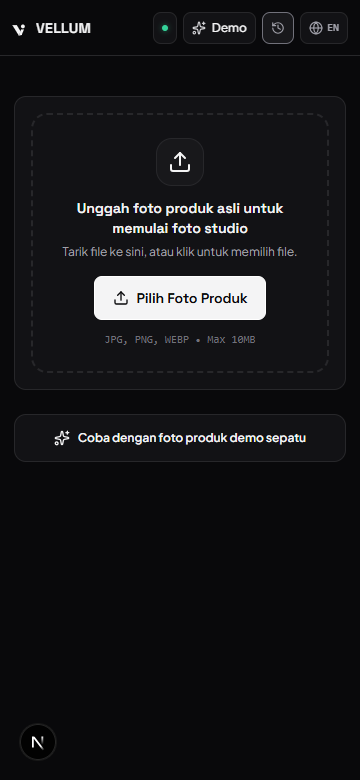
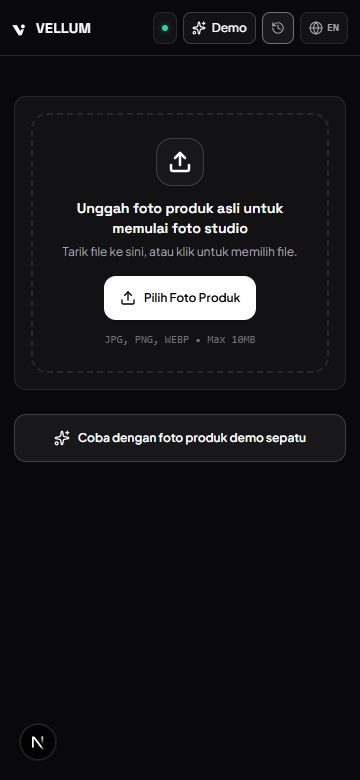
style: remove all orange/amber accents and enforce 100% pure white monochrome

Changed region(s): [[0.2444, 0.3385, 0.7639, 0.4308], [0.5194, 0.0308, 0.5806, 0.0615], [0.4889, 0.1846, 0.5194, 0.2462]]

diff --git a/components/studio/StudioDesktop.tsx b/components/studio/StudioDesktop.tsx
@@ -262,9 +262,13 @@ export function StudioDesktop({ session }: StudioDesktopProps) {
                 ? "Sedang membuat foto produk studio"
                 : `Buat foto studio (${generationCount} gambar)`
             }
-            className="btn-primary w-full h-11 text-xs font-semibold flex items-center justify-center gap-2 rounded-xl shadow-md cursor-pointer transition-all"
+            className={`w-full h-11 text-xs font-semibold flex items-center justify-center gap-2 rounded-xl transition-all cursor-pointer ${
+              isGenerating || sourceImages.length === 0
+                ? "bg-zinc-900 text-zinc-500 border border-zinc-800 cursor-not-allowed"
+                : "bg-white text-black font-semibold hover:bg-zinc-200 border-none shadow-md"
+            }`}
           >
-            <Play className="w-4 h-4 fill-current shrink-0" />
+            <Play className={`w-4 h-4 fill-current shrink-0 ${isGenerating || sourceImages.length === 0 ? "text-zinc-500" : "text-black fill-black"}`} />
             <span>
               {isGenerating
                 ? (language === "id" ? "Memproses foto studio..." : "Generating studio shoot...")
@@ -297,9 +301,9 @@ export function StudioDesktop({ session }: StudioDesktopProps) {
 
         {/* Quota Notice */}
         {quotaExceededNotice && (
-          <div className="mb-4 p-3 rounded-xl bg-amber-950/60 border border-amber-800 text-xs text-amber-200 flex items-center justify-between">
+          <div className="mb-4 p-3 rounded-xl bg-zinc-900 border border-zinc-700 text-xs text-white flex items-center justify-between">
             <div className="flex items-center gap-2">
-              <AlertTriangle className="w-4 h-4 text-amber-400 shrink-0" />
+              <AlertTriangle className="w-4 h-4 text-white shrink-0" />
               <span>
                 {language === "id"
                   ? "Batas antrean demo tercapai. Silakan coba kembali sesaat lagi."
@@ -309,7 +313,7 @@ export function StudioDesktop({ session }: StudioDesktopProps) {
             <button
               type="button"
               onClick={() => setQuotaExceededNotice(false)}
-              className="font-semibold underline hover:text-white cursor-pointer ml-3"
+              className="font-semibold underline text-white hover:text-zinc-300 cursor-pointer ml-3"
             >
               {t.page.dismiss}
             </button>
@@ -333,10 +337,10 @@ export function StudioDesktop({ session }: StudioDesktopProps) {
                 type="button"
                 id="desktop-empty-load-demo"
                 onClick={handleLoadDemoProduct}
-                className="btn-secondary h-9 px-4 text-xs gap-1.5 rounded-lg border-studio-border"
+                className="h-9 px-4 text-xs gap-1.5 rounded-lg border border-zinc-700 bg-zinc-900/80 hover:bg-zinc-800 text-white font-medium flex items-center transition-colors cursor-pointer"
               >
-                <Sparkles className="w-3.5 h-3.5 text-zinc-100" />
-                <span>
+                <Sparkles className="w-3.5 h-3.5 text-white" />
+                <span className="text-white">
                   {language === "id"
                     ? "Atau muat contoh produk demo sepatu"
                     : "Or load demo footwear product"}
@@ -432,9 +436,9 @@ export function StudioDesktop({ session }: StudioDesktopProps) {
               <button
                 type="button"
                 onClick={handleRunAgent}
-                className="btn-primary h-8 px-3.5 text-xs gap-1.5 shrink-0"
+                className="h-9 px-4 text-xs font-semibold gap-1.5 shrink-0 rounded-xl bg-white text-black hover:bg-zinc-200 border-none shadow-md flex items-center cursor-pointer transition-all"
               >
-                <Play className="w-3.5 h-3.5 fill-current" />
+                <Play className="w-3.5 h-3.5 fill-black text-black" />
                 <span>{language === "id" ? "Buat foto sekarang" : "Create photo now"}</span>
               </button>
             </div>

diff --git a/components/studio/StudioMobile.tsx b/components/studio/StudioMobile.tsx
@@ -89,9 +89,9 @@ export function StudioMobile({ session }: StudioMobileProps) {
 
         {/* Demo Quota Exceeded Notice */}
         {quotaExceededNotice && (
-          <div className="p-3 rounded-xl bg-amber-950/60 border border-amber-800/80 text-xs text-amber-200 flex items-center justify-between">
+          <div className="p-3 rounded-xl bg-zinc-900 border border-zinc-700 text-xs text-white flex items-center justify-between">
             <div className="flex items-center gap-2">
-              <AlertTriangle className="w-4 h-4 text-amber-400 shrink-0" />
+              <AlertTriangle className="w-4 h-4 text-white shrink-0" />
               <span className="leading-snug">
                 {language === "id"
                   ? "Batas antrean demo tercapai. Silakan coba sesaat lagi."
@@ -101,7 +101,7 @@ export function StudioMobile({ session }: StudioMobileProps) {
             <button
               type="button"
               onClick={() => setQuotaExceededNotice(false)}
-              className="min-h-[44px] min-w-[44px] flex items-center justify-center font-semibold text-xs text-amber-300 hover:text-white cursor-pointer shrink-0 ml-1"
+              className="min-h-[44px] min-w-[44px] flex items-center justify-center font-semibold text-xs text-white hover:text-zinc-300 cursor-pointer shrink-0 ml-1"
             >
               {t.page.dismiss}
             </button>
@@ -128,10 +128,10 @@ export function StudioMobile({ session }: StudioMobileProps) {
                 type="button"
                 id="mobile-empty-load-demo"
                 onClick={handleLoadDemoProduct}
-                className="w-full min-h-[48px] px-4 rounded-xl border border-studio-border bg-studio-card text-studio-text hover:bg-studio-subcard transition-all flex items-center justify-center gap-2 text-xs font-semibold cursor-pointer active:scale-98"
+                className="w-full min-h-[48px] px-4 rounded-xl border border-zinc-700 bg-zinc-900 hover:bg-zinc-800 text-white transition-all flex items-center justify-center gap-2 text-xs font-semibold cursor-pointer active:scale-98"
               >
-                <Sparkles className="w-4 h-4 text-zinc-100" />
-                <span>
+                <Sparkles className="w-4 h-4 text-white" />
+                <span className="text-white">
                   {language === "id"
                     ? "Coba dengan foto produk demo sepatu"
                     : "Try with demo footwear photo"}
@@ -311,9 +311,13 @@ export function StudioMobile({ session }: StudioMobileProps) {
                 ? "Sedang membuat foto studio"
                 : `Buat foto produk studio (${generationCount} variasi)`
             }
-            className="btn-primary w-full min-h-[50px] text-sm font-semibold flex items-center justify-center gap-2 rounded-xl shadow-md cursor-pointer active:scale-98 transition-all"
+            className={`w-full min-h-[50px] text-sm font-semibold flex items-center justify-center gap-2 rounded-xl transition-all ${
+              isGenerating || sourceImages.length === 0
+                ? "bg-zinc-900 text-zinc-500 border border-zinc-800 cursor-not-allowed"
+                : "bg-white text-black font-semibold hover:bg-zinc-200 border-none shadow-md cursor-pointer active:scale-98"
+            }`}
           >
-            <Play className="w-4 h-4 fill-current shrink-0" />
+            <Play className={`w-4 h-4 fill-current shrink-0 ${isGenerating || sourceImages.length === 0 ? "text-zinc-500" : "text-black fill-black"}`} />
             <span>
               {isGenerating
                 ? (language === "id" ? "Memproses foto studio..." : "Generating studio shoot...")

diff --git a/components/camera-settings/CameraSettings.tsx b/components/camera-settings/CameraSettings.tsx
@@ -228,17 +228,17 @@ export function CameraSettings({
 
           {/* Model Setting (Only if provider supports image conditioning) */}
           {supportsImageConditioning && (
-            <div className="p-3 rounded-lg border border-amber-800/40 bg-amber-950/20 space-y-2">
+            <div className="p-3 rounded-lg border border-zinc-700 bg-zinc-900/60 space-y-2">
               <div className="flex items-center justify-between">
-                <span className="text-xs font-semibold text-amber-300 flex items-center gap-1.5">
-                  <Sparkles className="w-3.5 h-3.5 text-amber-400" />
+                <span className="text-xs font-semibold text-white flex items-center gap-1.5">
+                  <Sparkles className="w-3.5 h-3.5 text-white" />
                   <span>{language === "id" ? "Tampilan Model" : "Model Setting"}</span>
                 </span>
-                <span className="text-[9px] font-bold text-amber-400 bg-amber-950 px-1.5 py-0.5 rounded border border-amber-800">
+                <span className="text-[9px] font-bold text-zinc-300 bg-zinc-800 px-1.5 py-0.5 rounded border border-zinc-700">
                   {language === "id" ? "Eksperimental" : "Experimental"}
                 </span>
               </div>
-              <p className="text-[11px] text-amber-200/70">
+              <p className="text-[11px] text-zinc-400">
                 {language === "id" ? "Produk tidak dijamin identik" : "Product details not guaranteed"}
               </p>
               <div className="grid grid-cols-2 gap-1.5">
@@ -251,7 +251,7 @@ export function CameraSettings({
                       onClick={() => onChangeDirection({ ...direction, modelSetting: setting })}
                       className={`p-1.5 rounded text-xs font-medium border text-center transition-all ${
                         isSelected
-                          ? "bg-amber-500/20 text-amber-200 border-amber-500/50"
+                          ? "bg-white text-zinc-950 font-bold border-white"
                           : "bg-zinc-900/80 text-zinc-400 border-zinc-800"
                       }`}
                     >

diff --git a/components/upload/ProductSourceUpload.tsx b/components/upload/ProductSourceUpload.tsx
@@ -156,24 +156,24 @@ export function ProductSourceUpload({
               : "border-studio-border hover:border-studio-default bg-studio-card hover:bg-studio-subcard"
           }`}
         >
-          <div className="w-12 h-12 sm:w-14 sm:h-14 rounded-2xl bg-studio-subcard border border-studio-border flex items-center justify-center text-zinc-100 mb-3 sm:mb-4">
-            <Upload className="w-6 h-6 sm:w-7 sm:h-7" />
+          <div className="w-12 h-12 sm:w-14 sm:h-14 rounded-2xl bg-zinc-900 border border-zinc-700 flex items-center justify-center text-white mb-3 sm:mb-4">
+            <Upload className="w-6 h-6 sm:w-7 sm:h-7 text-white stroke-[2.5]" style={{ color: "#ffffff" }} />
           </div>
 
-          <h2 className="text-sm sm:text-base font-semibold text-studio-text max-w-md font-heading break-words px-2">
+          <h2 className="text-sm sm:text-base font-semibold text-white max-w-md font-heading break-words px-2">
             {language === "id"
               ? "Unggah foto produk asli untuk memulai foto studio"
               : "Upload authentic product photo to begin studio shoot"}
           </h2>
 
-          <p className="text-xs text-studio-muted mt-1.5 max-w-sm px-2">
+          <p className="text-xs text-zinc-400 mt-1.5 max-w-sm px-2">
             {language === "id"
               ? "Tarik file ke sini, atau klik untuk memilih file."
               : "Drag and drop files here, or click to browse."}
           </p>
 
-          <div className="mt-4 sm:mt-5 inline-flex items-center gap-2 btn-primary px-4 sm:px-5 py-2.5 text-xs font-semibold rounded-xl shadow-sm min-h-[44px]">
-            <Upload className="w-4 h-4" />
+          <div className="mt-4 sm:mt-5 inline-flex items-center gap-2 bg-white text-black font-semibold hover:bg-zinc-200 border-none shadow-md px-4 sm:px-5 py-2.5 text-xs rounded-xl min-h-[44px]">
+            <Upload className="w-4 h-4 text-black" />
             <span>{language === "id" ? "Pilih Foto Produk" : "Select Product Photo"}</span>
           </div>
 

diff --git a/components/concept-art/ConceptArtGenerator.tsx b/components/concept-art/ConceptArtGenerator.tsx
@@ -297,7 +297,7 @@ export function ConceptArtGenerator({ isOpen, onClose }: ConceptArtGeneratorProp
                 <span className="text-xs font-bold" style={{ color: currentProvider.color }}>{currentProvider.shortName}</span>
                 {hasKey
                   ? <CheckCircle2 className="w-3.5 h-3.5" style={{ color: currentProvider.color }} />
-                  : <Settings2 className="w-3.5 h-3.5 text-amber-500" />
+                  : <Settings2 className="w-3.5 h-3.5 text-zinc-300" />
                 }
               </button>
               <button onClick={onClose} id="concept-art-close-btn"
@@ -319,13 +319,13 @@ export function ConceptArtGenerator({ isOpen, onClose }: ConceptArtGeneratorProp
               {needsKey && !hasKey && (
                 <button onClick={() => setShowSettings(true)}
                   className="flex items-center gap-2.5 p-3.5 rounded-2xl w-full text-left cursor-pointer"
-                  style={{ background: "rgba(245,158,11,0.08)", border: "1.5px solid rgba(245,158,11,0.3)" }}>
-                  <Settings2 className="w-4 h-4 text-amber-500 shrink-0" />
+                  style={{ background: "rgba(255,255,255,0.06)", border: "1px solid rgba(255,255,255,0.2)" }}>
+                  <Settings2 className="w-4 h-4 text-white shrink-0" />
                   <div className="flex-1">
-                    <p className="text-xs font-bold text-amber-700">API Key Diperlukan</p>
-                    <p className="text-[10px] text-amber-600">Klik untuk masukkan {currentProvider.name} API key</p>
+                    <p className="text-xs font-bold text-white">API Key Diperlukan</p>
+                    <p className="text-[10px] text-zinc-300">Klik untuk masukkan {currentProvider.name} API key</p>
                   </div>
-                  <ChevronRight className="w-4 h-4 text-amber-400" />
+                  <ChevronRight className="w-4 h-4 text-white/60" />
                 </button>
               )}
 

diff --git a/components/app-shell/Header.tsx b/components/app-shell/Header.tsx
@@ -33,8 +33,8 @@ export function Header({
       {/* Sisi Kiri (Branding) */}
       <div className="flex items-center gap-2 sm:gap-3 select-none shrink-0">
         <div className="flex items-center gap-2">
-          <VellumLogoMark className="w-4 h-4 text-zinc-100 shrink-0" />
-          <span className="font-semibold tracking-wide text-studio-text text-sm font-heading">
+          <VellumLogoMark className="w-4 h-4 text-white fill-white shrink-0" color="#ffffff" />
+          <span className="font-semibold tracking-wide text-white text-sm font-heading">
             VELLUM
           </span>
         </div>
@@ -63,12 +63,12 @@ export function Header({
           onClick={onLoadDemoProduct}
           type="button"
           aria-label="Muat produk demo sepatu"
-          className="h-8 px-2 sm:px-3 rounded-lg text-xs font-medium text-studio-text border border-studio-border bg-studio-card hover:bg-studio-subcard transition-colors flex items-center gap-1.5 cursor-pointer"
+          className="h-8 px-2 sm:px-3 rounded-lg text-xs font-medium text-white border border-zinc-700 bg-studio-card hover:bg-studio-subcard transition-colors flex items-center gap-1.5 cursor-pointer"
           title={t.header.loadDemoProductTitle}
         >
-          <Sparkles className="w-3.5 h-3.5 text-zinc-300 shrink-0" />
-          <span className="hidden sm:inline">{t.header.loadDemoProduct}</span>
-          <span className="sm:hidden text-xs">Demo</span>
+          <Sparkles className="w-3.5 h-3.5 text-white shrink-0" />
+          <span className="hidden sm:inline text-white">{t.header.loadDemoProduct}</span>
+          <span className="sm:hidden text-xs text-white">Demo</span>
         </button>
 
         {/* Tombol History */}

diff --git a/components/consistency-score/ConsistencyBadge.tsx b/components/consistency-score/ConsistencyBadge.tsx
@@ -25,7 +25,7 @@ export function ConsistencyBadge({
       <div className="flex items-center justify-between gap-2 min-w-0">
         <div className="flex items-center gap-2 min-w-0">
           {isUnverified ? (
-            <div className="w-6 h-6 rounded bg-amber-950/80 border border-amber-800 flex items-center justify-center text-amber-400 shrink-0">
+            <div className="w-6 h-6 rounded bg-zinc-800 border border-zinc-700 flex items-center justify-center text-zinc-300 shrink-0">
               <AlertTriangle className="w-3.5 h-3.5" />
             </div>
           ) : isPassing ? (
@@ -66,7 +66,7 @@ export function ConsistencyBadge({
         <span
           className={`text-[10px] font-bold uppercase tracking-wider px-2.5 py-0.5 rounded-full max-w-full truncate ${
             isUnverified
-              ? "bg-amber-500/15 text-amber-300 border border-amber-400/30"
+              ? "bg-zinc-800/80 text-zinc-200 border border-zinc-700"
               : isPassing
               ? "bg-emerald-500/15 text-emerald-300 border border-emerald-400/30"
               : "bg-rose-500/15 text-rose-300 border border-rose-400/30"
@@ -125,7 +125,7 @@ export function ConsistencyBadge({
             <div className="mt-2 text-[10px] text-white/60 space-y-1 break-words">
               {validation.notes.map((note: string, idx: number) => (
                 <p key={idx} className="flex items-start gap-1.5">
-                  <span className="text-amber-400 font-bold shrink-0">•</span>
+                  <span className="text-zinc-400 font-bold shrink-0">•</span>
                   <span className="break-words">{note}</span>
                 </p>
               ))}

diff --git a/components/api-settings/ApiSettingsModal.tsx b/components/api-settings/ApiSettingsModal.tsx
@@ -164,7 +164,7 @@ export function ApiSettingsModal({
           </div>
         ) : (
           <div className="p-3.5 rounded-xl bg-zinc-900 border border-zinc-800 flex items-start gap-2.5 text-xs">
-            <span className="w-2 h-2 rounded-full bg-amber-400/80 shrink-0 mt-1" />
+            <span className="w-2 h-2 rounded-full bg-white shrink-0 mt-1 shadow-[0_0_6px_rgba(255,255,255,0.6)]" />
             <div>
               <p className="font-semibold text-zinc-200">
                 {language === "id" ? "Mode Demo Aktif" : "Demo Mode Active"}
@@ -250,7 +250,7 @@ export function ApiSettingsModal({
                     {language === "id"
                       ? "Secara default, key hanya disimpan untuk sesi browser ini (sessionStorage). Centang untuk menyimpan permanen di browser ini (localStorage)."
                       : "By default, key is stored only for this browser session (sessionStorage). Check to store permanently on this device (localStorage)."}
-                    <span className="text-amber-400/90 block mt-0.5 font-medium">
+                    <span className="text-zinc-300 block mt-0.5 font-medium">
                       ⚠ {language === "id" ? "Peringatan: Jangan centang bila menggunakan komputer publik atau bersama." : "Warning: Do not check on public or shared computers."}
                     </span>
                   </p>

diff --git a/components/blueprint/BlueprintModal.tsx b/components/blueprint/BlueprintModal.tsx
@@ -151,12 +151,12 @@ export function BlueprintModal({ blueprint, isOpen, onClose }: BlueprintModalPro
 
               {/* Footwear Specific Specs (If applicable) */}
               {blueprint.heel && (
-                <div className="p-4 rounded-2xl bg-amber-500/10 border border-amber-400/30 space-y-3 shadow-2xs">
-                  <div className="flex items-center justify-between border-b border-amber-400/20 pb-2">
-                    <span className="text-xs font-bold text-amber-300 uppercase tracking-wide">
+                <div className="p-4 rounded-2xl bg-white/[0.04] border border-white/[0.1] space-y-3 shadow-2xs">
+                  <div className="flex items-center justify-between border-b border-white/[0.08] pb-2">
+                    <span className="text-xs font-bold text-white uppercase tracking-wide">
                       {t.blueprintModal.footwearHeelArchitecture}
                     </span>
-                    <span className="text-[10px] font-semibold text-amber-400/90">
+                    <span className="text-[10px] font-semibold text-zinc-400">
                       {t.blueprintModal.lockedConstraints}
                     </span>
                   </div>

diff --git a/app/globals.css b/app/globals.css
@@ -10,12 +10,12 @@
     --surface-elevated: #222226;
     --border-subtle: #27272a;
     --border-default: #3f3f46;
-    --text-primary: #f4f4f5;
+    --text-primary: #ffffff;
     --text-secondary: #a1a1aa;
     --text-muted: #71717a;
-    --accent: #f4f4f5;
+    --accent: #ffffff;
     --accent-hover: #ffffff;
-    --accent-contrast: #09090b;
+    --accent-contrast: #000000;
   }
 
   body {
@@ -75,18 +75,19 @@
   letter-spacing: -0.01em;
   padding: 10px 18px;
   border-radius: 8px;
-  background-color: #f4f4f5;
-  color: #09090b;
-  border: 1px solid #ffffff;
+  background-color: #ffffff;
+  color: #000000;
+  border: none;
+  box-shadow: 0 1px 4px rgba(0, 0, 0, 0.4);
   transition: background-color 0.15s cubic-bezier(0.16, 1, 0.3, 1), transform 0.1s ease;
   cursor: pointer;
   user-select: none;
 }
 
 .btn-primary:hover:not(:disabled) {
-  background-color: #ffffff;
+  background-color: #e4e4e7;
   color: #000000;
-  box-shadow: 0 1px 6px rgba(255, 255, 255, 0.15);
+  box-shadow: 0 2px 8px rgba(255, 255, 255, 0.15);
 }
 
 .btn-primary:active:not(:disabled) {

diff --git a/tailwind.config.ts b/tailwind.config.ts
@@ -17,15 +17,15 @@ const config: Config = {
           elevated: "#222226",
           border: "#27272a",
           "border-default": "#3f3f46",
-          text: "#f4f4f5",
+          text: "#ffffff",
           muted: "#a1a1aa",
           dim: "#71717a",
-          accent: "#f4f4f5",
+          accent: "#ffffff",
           "accent-hover": "#ffffff",
           "accent-subtle": "rgba(255, 255, 255, 0.1)",
         },
         accent: {
-          DEFAULT: "#f4f4f5",
+          DEFAULT: "#ffffff",
           hover: "#ffffff",
           subtle: "rgba(255, 255, 255, 0.1)",
         },

diff --git a/components/studio/PresetPicker.tsx b/components/studio/PresetPicker.tsx
@@ -62,7 +62,7 @@ export const BACKGROUND_PRESETS: BackgroundPresetItem[] = [
     nameEn: "Match Reference",
     descId: "Meniru tata cahaya foto referensi",
     descEn: "Match photo lighting",
-    previewClass: "bg-gradient-to-br from-amber-700/60 to-zinc-900 border-amber-600/50",
+    previewClass: "bg-gradient-to-br from-zinc-600 to-zinc-900 border-zinc-500",
   },
 ];
 
